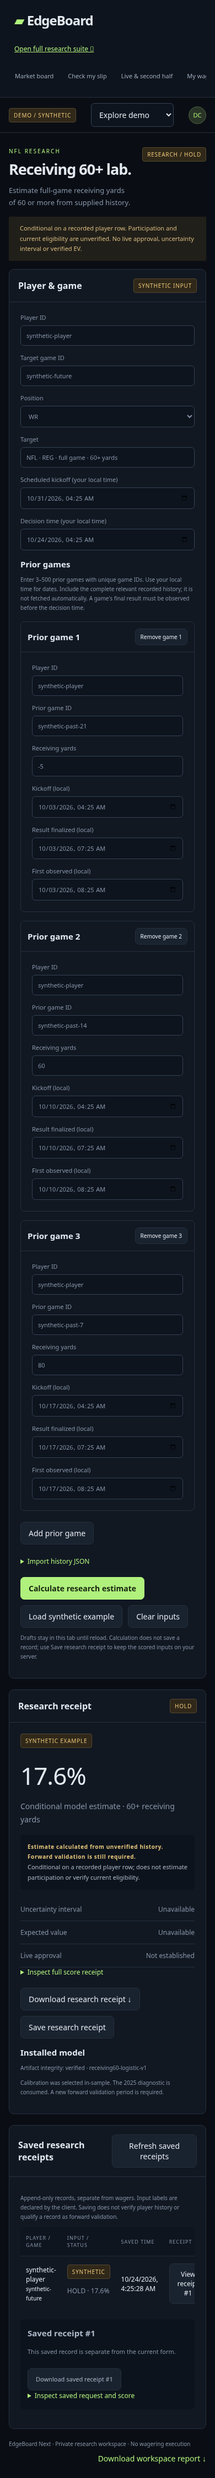
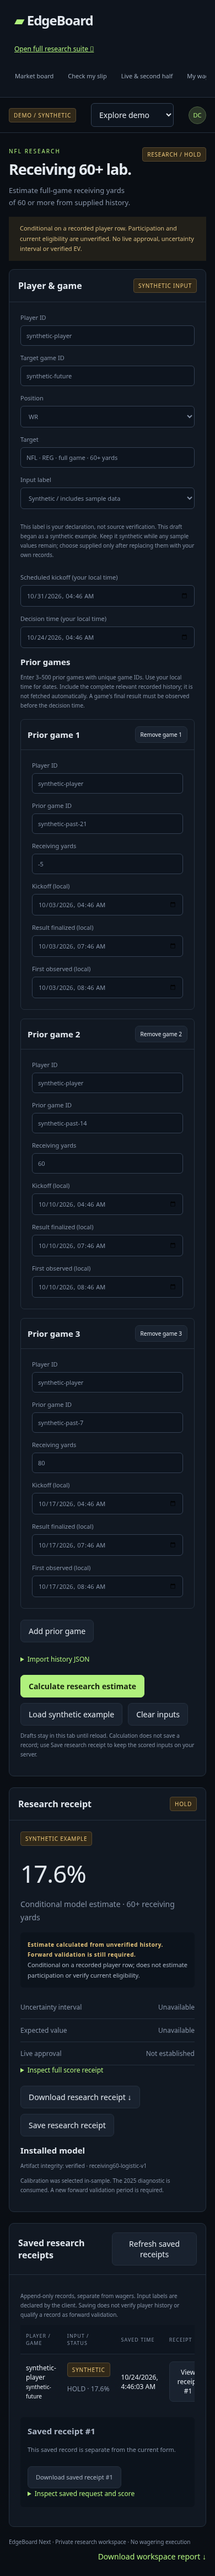
Reject unsafe receiving yardage and make input provenance labels explicit

diff --git a/next_app/web/receiving60.js b/next_app/web/receiving60.js
@@ -2,7 +2,7 @@ const esc = value => String(value ?? '').replace(/[&<>"']/g, c => ({'&':'&amp;',
 const localTime = date => Number.isFinite(date.getTime()) ? new Date(date.getTime() - date.getTimezoneOffset()*60000).toISOString().slice(0,16) : '';
 const utc = value => { const date=new Date(value); if (!value || !Number.isFinite(date.getTime())) throw Error('Enter valid kickoff and decision times'); return date.toISOString(); };
 const fresh = () => ({playerId:'',gameId:'',position:'WR',kickoffAt:localTime(new Date(Date.now()+7*86400000)),decisionAt:localTime(new Date()),history:'[]'});
-const state = {draft:fresh(),importText:'[]',inputMode:'supplied',busy:false,error:'',result:null,request:null,savedId:null,
+const state = {draft:fresh(),importText:'[]',inputMode:'supplied',sampleDerived:false,busy:false,error:'',result:null,request:null,savedId:null,
   readiness:null,readinessError:'',receipts:[],nextCursor:null,receiptsError:'',openRecord:null};
 let request, redraw;
 const reasons={
@@ -14,7 +14,8 @@ const reasons={
   FUTURE_DECISION_CLOCK:'The decision time cannot be in the future.',
   MODEL_NOT_AVAILABLE_AS_OF_DECISION:'The model was not available at this decision time.',
   INVALID_HISTORY_IDENTITY:'Check player IDs and game IDs. Prior games must be unique and exclude the target game.',
-  HISTORY_NOT_AVAILABLE_AS_OF_DECISION:'Every prior game must resolve and be observed before the decision time. Yardage must be an integer.',
+  INVALID_HISTORY_YARDAGE:'Use whole-number receiving yardage within the supported exact integer range.',
+  HISTORY_NOT_AVAILABLE_AS_OF_DECISION:'Every prior game must resolve and be observed before the decision time.',
   ARTIFACT_INTEGRITY_FAILURE:'The installed model failed its integrity check. No estimate is available.'
 };
 export function configureReceiving60(options) { request=options.request; redraw=options.redraw; }
@@ -42,6 +43,8 @@ export function receiving60View() {
     ${field('playerId','Player ID')}${field('gameId','Target game ID')}
     <label>Position<select name="position">${['WR','RB','TE'].map(p=>`<option ${p===d.position?'selected':''}>${p}</option>`).join('')}</select></label>
     <label>Target<input value="NFL · REG · full game · 60+ yards" readonly></label>
+    <label class="full">Input label<select name="inputMode"><option value="supplied" ${state.inputMode==='supplied'?'selected':''}>Supplied history / unverified</option><option value="synthetic" ${state.inputMode==='synthetic'?'selected':''}>Synthetic / includes sample data</option></select></label>
+    <p class="full subtle">This label is your declaration, not source verification. ${state.sampleDerived?'This draft began as a synthetic example. Keep it synthetic while any sample values remain; choose supplied only after replacing them with your own records.':'Use synthetic for invented or example values. Supplied history remains unverified.'}</p>
     ${field('kickoffAt','Scheduled kickoff (your local time)','datetime-local')}${field('decisionAt','Decision time (your local time)','datetime-local')}
   </div><div class="spacer"></div><h3>Prior games</h3><p id="history-help" class="subtle">Enter 3–500 prior games with unique game IDs. Use your local time for dates. Include the complete relevant recorded history; it is not fetched automatically. A game's final result must be observed before the decision time.</p>
   <div id="receiving60-games">${JSON.parse(d.history).map((row,i)=>`<section class="history-game"><div class="panelhead"><h3>Prior game ${i+1}</h3><button type="button" class="tiny" data-history-remove="${i}">Remove game ${i+1}</button></div><div class="formgrid panelbody">${[
@@ -70,6 +73,10 @@ export function receiving60View() {
 }
 export function receiving60Input(target) {
   if (target.form?.id!=='receiving60-form' || state.busy) return;
+  if (target.name==='inputMode') {
+    if (['synthetic','supplied'].includes(target.value)) { state.inputMode=target.value; invalidate(); redraw(); }
+    return;
+  }
   if (target.name==='history') { state.importText=target.value; return; }
   if (target.dataset.historyField) {
     const rows=JSON.parse(state.draft.history), key=target.dataset.historyField;
@@ -92,7 +99,7 @@ function downloadReceipt(receipt,filename) {
 }
 export async function receiving60Click(button) {
   if (state.busy) return;
-  if (button.id==='receiving60-clear') { state.draft=fresh(); state.importText='[]'; state.inputMode='supplied'; invalidate(); redraw(); }
+  if (button.id==='receiving60-clear') { state.draft=fresh(); state.importText='[]'; state.inputMode='supplied'; state.sampleDerived=false; invalidate(); redraw(); }
   if (button.id==='receiving60-add-game' || button.dataset.historyRemove!==undefined) {
     const rows=JSON.parse(state.draft.history);
     if (button.id==='receiving60-add-game' && rows.length<500) rows.push({playerId:state.draft.playerId,gameId:'',kickoffAt:'',resolvedAt:'',observedAt:'',receivingYards:null});
@@ -112,7 +119,7 @@ export async function receiving60Click(button) {
     state.draft={...fresh(),playerId:'synthetic-player',gameId:'synthetic-future',history:JSON.stringify([21,14,7].map((days,i)=>({
       playerId:'synthetic-player',gameId:`synthetic-past-${days}`,kickoffAt:stamp(new Date(now-days*86400000)),
       resolvedAt:stamp(new Date(now-days*86400000+3*3600000)),observedAt:stamp(new Date(now-days*86400000+4*3600000)),receivingYards:[-5,60,80][i]})),null,2)};
-    state.inputMode='synthetic'; state.importText=state.draft.history; invalidate(); redraw();
+    state.inputMode='synthetic'; state.sampleDerived=true; state.importText=state.draft.history; invalidate(); redraw();
   }
   if (button.id==='receiving60-download' && state.result && state.request) {
     const receipt={exportedAt:new Date().toISOString(),inputMode:state.inputMode,request:state.request,readiness:state.readiness,

diff --git a/next_app/research_runtime/tests/correctedReceiving.test.ts b/next_app/research_runtime/tests/correctedReceiving.test.ts
@@ -74,6 +74,33 @@ test('target contamination, duplicates, missing history and nonfinite outcomes a
   const infinite=input();infinite.history[0].receivingYards=Infinity;
   for(const value of [duplicate,target,infinite,{...input(),history:input().history.slice(0,2)}]) assert.equal((await service.score(value)).probability,null);
 });
+test('invalid yardage abstains distinctly from unavailable history clocks',async()=>{
+  for (const yards of [Infinity,-Infinity,NaN,1.5,-1.5,Number.MAX_SAFE_INTEGER+1,Number.MIN_SAFE_INTEGER-1]) {
+    const value=input(); value.history[0].receivingYards=yards;
+    const result=await service.score(value);
+    assert.equal(result.probability,null);
+    assert.equal(result.reason,'INVALID_HISTORY_YARDAGE');
+  }
+  const value=input(); value.history[0].observedAt=value.request.decisionAt;
+  assert.equal((await service.score(value)).reason,'HISTORY_NOT_AVAILABLE_AS_OF_DECISION');
+});
+test('JSON integers rounded beyond safe precision are rejected',async()=>{
+  for (const literal of ['9007199254740993','-9007199254740993']) {
+    const value=input(); value.history[0].receivingYards=JSON.parse(literal);
+    assert.notEqual(String(value.history[0].receivingYards),literal);
+    const result=await service.score(value);
+    assert.equal(result.probability,null);
+    assert.equal(result.reason,'INVALID_HISTORY_YARDAGE');
+  }
+});
+test('negative safe yardage remains in the derived averages',async()=>{
+  const value=input(); value.history[0].receivingYards=-50;
+  const result=await service.score(value);
+  assert.ok(result.probability!==null);
+  assert.ok('features' in result);
+  if (!('features' in result)) return;
+  assert.deepEqual(result.features,[30,30,2/3,2/3,3]);
+});
 test('tampered artifact and report fail closed and external mutations cannot change service',async()=>{
   const tamper=JSON.parse(JSON.stringify(artifact));tamper.intercept+=1;
   assert.equal((await createCorrectedReceivingService(tamper,report,manifest,now).score(input())).reason,'ARTIFACT_INTEGRITY_FAILURE');

diff --git a/next_app/research_runtime/backend/correctedReceiving.ts b/next_app/research_runtime/backend/correctedReceiving.ts
@@ -83,7 +83,8 @@ export function createCorrectedReceivingService(artifact: unknown, report: unkno
       if (!exact(h,['playerId','gameId','kickoffAt','resolvedAt','observedAt','receivingYards'])||h.playerId!==r.playerId||!id(h.gameId)||h.gameId===r.gameId||seen.has(h.gameId)) return abstain('INVALID_HISTORY_IDENTITY');
       seen.add(h.gameId);
       const played=time(h.kickoffAt),resolved=time(h.resolvedAt),observed=time(h.observedAt);
-      if (![played,resolved,observed].every(finite)||played>=resolved||resolved>observed||observed>=decision||!finite(h.receivingYards)||!Number.isInteger(h.receivingYards)) return abstain('HISTORY_NOT_AVAILABLE_AS_OF_DECISION');
+      if (![played,resolved,observed].every(finite)||played>=resolved||resolved>observed||observed>=decision) return abstain('HISTORY_NOT_AVAILABLE_AS_OF_DECISION');
+      if (!finite(h.receivingYards)||!Number.isSafeInteger(h.receivingYards)) return abstain('INVALID_HISTORY_YARDAGE');
       history.push({kickoff:played,yards:h.receivingYards});
     }
     history.sort((x,y)=>x.kickoff-y.kickoff);

diff --git a/next_app/tests/container_check.py b/next_app/tests/container_check.py
@@ -55,6 +55,15 @@ assert result['canonicalArtifactSha256']=='7852516f02ee5eaf6337feedaadaf41b930af
 call('/api/receiving60/predict',b'{',expected=400)
 assert call('/api/receiving60/predict',b'{}',expected=422)['probability'] is None
 call('/api/receiving60/predict',b'{}',headers={'Authorization':'Bearer wrong'},expected=401)
+before_invalid=len(call('/api/receiving60/receipts')['receipts'])
+for yards in (9007199254740993,-9007199254740993):
+    invalid=json.loads(json.dumps(payload)); invalid['history'][0]['receivingYards']=yards
+    rejected=call('/api/receiving60/predict',json.dumps(invalid).encode(),expected=422)
+    assert rejected['reason']=='INVALID_HISTORY_YARDAGE'
+    envelope={'inputMode':'supplied','input':invalid,'expectedArtifactSha256':result['canonicalArtifactSha256']}
+    rejected=call('/api/receiving60/receipts',json.dumps(envelope).encode(),expected=422)
+    assert rejected['reason']=='INVALID_HISTORY_YARDAGE'
+assert len(call('/api/receiving60/receipts')['receipts'])==before_invalid
 records=call('/api/receiving60/receipts')['receipts']
 if not records:
     envelope={'inputMode':'synthetic','input':payload,'expectedArtifactSha256':result['canonicalArtifactSha256']}

diff --git a/next_app/tests/browser_check.py b/next_app/tests/browser_check.py
@@ -85,6 +85,13 @@ with TemporaryDirectory() as tmp:
             assert saved['inputModeProvenance']=='CLIENT_DECLARED'
             page.get_by_role('button',name='Load synthetic example').click()
             page.locator('[name=prior-0-receivingYards]').fill('-10')
+            assert page.locator('[name=inputMode]').input_value()=='synthetic'
+            page.get_by_role('button',name='Calculate research estimate').click()
+            page.locator('.research-estimate').filter(has_text='%').wait_for()
+            page.locator('[name=inputMode]').select_option('supplied')
+            assert page.get_by_role('button',name='Download research receipt',exact=True).count()==0
+            assert 'This draft began as a synthetic example.' in page.locator('#receiving60-form').inner_text()
+            page.locator('[name=inputMode]').select_option('synthetic')
             page.get_by_role('button',name='Calculate research estimate').click()
             page.locator('.research-estimate').filter(has_text='%').wait_for()
             for _ in range(3):

diff --git a/next_app/RECEIVING60_API.md b/next_app/RECEIVING60_API.md
@@ -29,7 +29,11 @@ greater than or equal to 60, conditional on a recorded player row.
 | `comparison` | `>=` |
 
 Each history row must contain exactly `playerId`, `gameId`, `kickoffAt`,
-`resolvedAt`, `observedAt`, and integer `receivingYards`. Use UTC ISO timestamps
+`resolvedAt`, `observedAt`, and safe-integer `receivingYards` (between
+−9,007,199,254,740,991 and 9,007,199,254,740,991). This numeric range prevents
+precision loss between API runtimes; it is not a football plausibility rule.
+Fractional, nonfinite and unsafe yardage abstains with `INVALID_HISTORY_YARDAGE`.
+Use UTC ISO timestamps
 ending in `Z` (seconds, or exactly three decimal places). The same player must
 appear in every row. Games must be unique, exclude the target game, and satisfy
 `kickoffAt < resolvedAt <= observedAt < decisionAt`. Include at least three
@@ -37,6 +41,14 @@ prior games and no more than 500. Negative receiving yardage is retained.
 The scorer sorts history and derives last-3/last-8 averages, hit rates and the
 number of supplied prior games. Supply the complete relevant recorded history;
 omitting rows changes these features and is not detected automatically.
+
+The frozen pipeline constructed history from NFL regular-season WR/RB/TE
+recorded rows in its 2021–2025 source window, retaining history across seasons
+and beginning in 2021. API rows do not contain season type, historical position
+or source lineage, so this endpoint cannot verify that a supplied history
+matches that universe. A source adapter must document its historical inclusion
+window and prove availability/completeness before its results can support
+comparable forward validation.
 
 ## Synthetic request example
 
@@ -112,7 +124,8 @@ their source provenance if you plan forward validation.
 
 ## Optional saved research receipts
 
-The browser lab provides game-by-game history entry, optional JSON import and a
+The browser lab provides game-by-game history entry, an explicit client-declared
+input label, optional JSON import and a
 separate **Save research receipt** action. To save from an API client, send
 `POST /api/receiving60/receipts` with your API key and exactly:
 
@@ -128,6 +141,9 @@ Replace `input` with the complete valid request described above and use the
 64-character `canonicalArtifactSha256` returned by the scorer. For synthetic
 test inputs, set `inputMode` to `synthetic`. These input labels are client
 declarations, not independently verified provenance.
+Edited examples remain synthetic by default. The browser reminds you when a
+draft began as an example; only declare supplied input after replacing sample
+values. Changing the label clears the previous estimate and save association.
 
 The server recalculates the input before saving; it never accepts a score
 receipt from a client. An artifact mismatch returns `409`. Invalid history or

diff --git a/next_app/README.md b/next_app/README.md
@@ -35,7 +35,8 @@ The **Receiving 60+ lab** in the main workspace offers the same scorer through
 browser login, a labeled synthetic example, readable abstention messages and
 downloadable request/response receipts. Editing inputs invalidates the old
 receipt. Prior games can be entered through ordinary form fields or optional
-JSON import. Form drafts stay in the tab until reload. **Save research receipt**
+JSON import. The input label is explicitly client-declared; edited examples
+retain a sample-origin reminder. Form drafts stay in the tab until reload. **Save research receipt**
 recalculates on the server and saves an append-only request/score record in
 the workspace SQLite database, separate from wagers. Current player history
 must still be supplied and remains unverified.
@@ -89,4 +90,4 @@ The browser check runs a temporary server with disposable databases, checks desk
 
 Validated locally: 7 new backend test groups, 140 existing EdgeOdds tests, JavaScript syntax, and Chromium flows covering demo filtering, slip review, de-vig arithmetic, persistent paper wager settlement, model reports, provenance, export, mobile overflow and browser errors. Synthetic tests establish software behavior, not betting performance.
 
-Additional migrated-runtime checks: `npm run build`, `npm run test:model` (10 pass, 1 real-data cohort check skipped without pinned raw CSVs), `node --experimental-test-isolation=none --test compat/runtime.test.mjs` (CRUD, owner separation, transactions and rollback), and 2 Python receiving-model tests. Browser checks opened the migrated Advanced Research and My Wagers views without JavaScript exceptions. The protected storage diagnostic returned 401 signed out and completed create/read/update/delete signed in. The current workspace suite has 22 tests covering access, readiness, receipts, accounting and backup/restore. GitHub Actions runs the suites, browser workflows and Render image build.
+Additional migrated-runtime checks: `npm run build`, `npm run test:model` (13 pass, 1 real-data cohort check skipped without pinned raw CSVs), `node --experimental-test-isolation=none --test compat/runtime.test.mjs` (CRUD, owner separation, transactions and rollback), and 2 Python receiving-model tests. Browser checks opened the migrated Advanced Research and My Wagers views without JavaScript exceptions. The protected storage diagnostic returned 401 signed out and completed create/read/update/delete signed in. The current workspace suite has 22 tests covering access, readiness, receipts, accounting and backup/restore. GitHub Actions runs the suites, browser workflows and Render image build.
